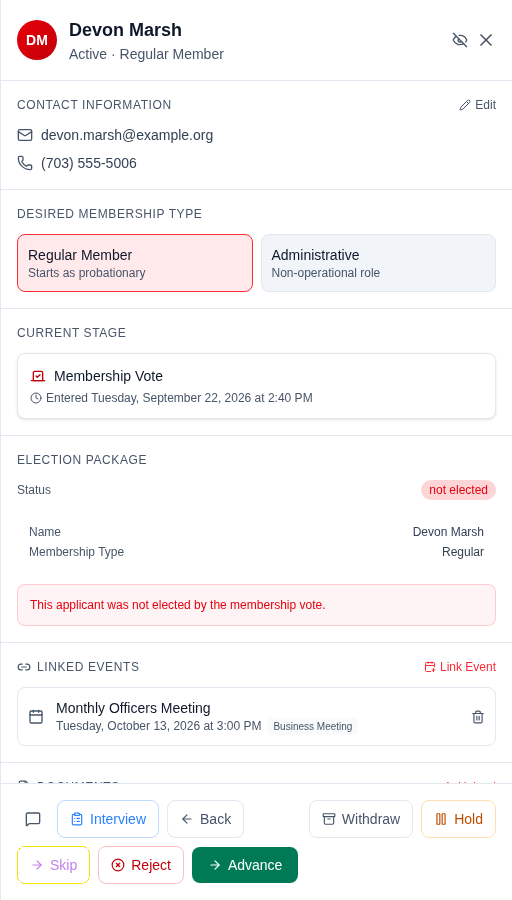
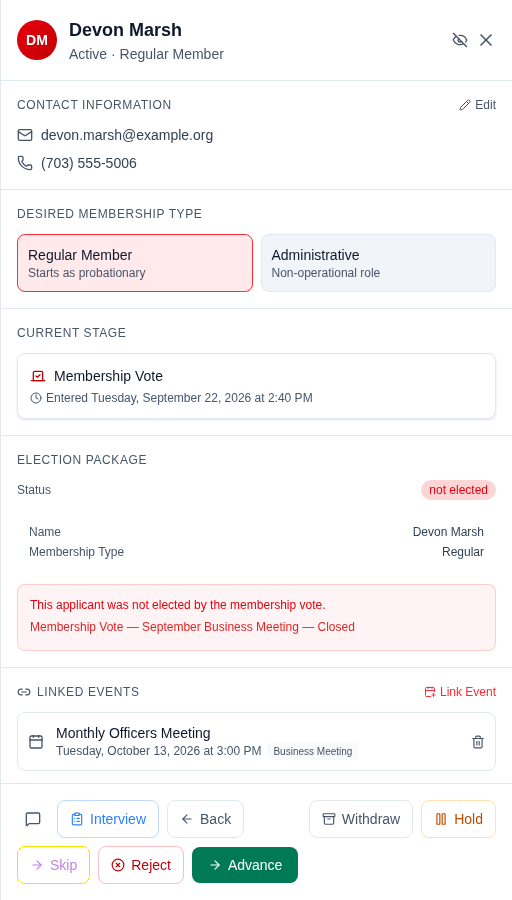
fix(prospective-members): carry the ballot's identity through the package mapper
The applicant drawer's election panel is written to name the ballot that
decided the outcome, as a link under the banner, with the election's state
appended — "— Voting in progress" or "— Closed". It has never appeared, for
any package in any outcome state.

The backend was never the gap: `ElectionPackageResponse` returns
`election_title`, `election_end_date` and `election_status` beside
`election_id`, and the running API serves all four. `mapElectionPackageResponse`
copied only `election_id`, so `ElectionPackageSection`'s
`election_id && election_title` guard was permanently false.

A guard that renders nothing has no failure to report: no exception, no
console warning, no failing test, and a panel that looks complete because
nothing in it is visibly wrong. It surfaced only from reading the section's
rendered text against a seeded losing vote while framing a screenshot.

`BackendElectionPackageResponse` gains the three fields it was missing, and
the mapper carries them with the same `|| undefined` coercion the neighbouring
`election_id` uses — a read mapping, where an empty title should read as
absent rather than render an empty link.

The mapper is exported so the test drives it directly, as
`mapProspectToApplicant` already is. Two cases: every election field survives
the mapping, and a package on no ballot leaves all four undefined.

The screenshot the defect was found from is re-taken against the fixed build,
[…]

Changed region(s): [[0.0312, 0.6844, 0.7188, 0.8711], [0.8125, 0.6844, 0.9688, 0.84]]

diff --git a/frontend/src/modules/prospective-members/services/api.test.ts b/frontend/src/modules/prospective-members/services/api.test.ts
@@ -1,6 +1,6 @@
 import { describe, it, expect } from 'vitest';
-import { mapProspectToApplicant } from './api';
-import type { BackendProspectResponse, BackendStepProgressResponse } from '../types';
+import { mapElectionPackageResponse, mapProspectToApplicant } from './api';
+import type { BackendElectionPackageResponse, BackendProspectResponse, BackendStepProgressResponse } from '../types';
 import { StepProgressStatus } from '../types';
 
 /** Helper to build a minimal BackendStepProgressResponse */
@@ -299,5 +299,61 @@ describe('mapProspectToApplicant', () => {
     const result = mapProspectToApplicant(data);
 
     expect(result.status).toBe('on_hold');
+  });
+});
+
+/** Helper to build a minimal BackendElectionPackageResponse */
+function makeElectionPackageResponse(
+  overrides: Partial<BackendElectionPackageResponse> = {}
+): BackendElectionPackageResponse {
+  return {
+    id: 'pkg-1',
+    prospect_id: 'prospect-1',
+    pipeline_id: 'pipeline-1',
+    step_id: 'step-1',
+    election_id: 'election-1',
+    election_title: 'Membership Vote — September Business Meeting',
+    election_end_date: '2026-10-01T18:28:41Z',
+    election_status: 'closed',
+    status: 'not_elected',
+    applicant_snapshot: { first_name: 'Devon', last_name: 'Marsh' },
+    coordinator_notes: null,
+    package_config: null,
+    created_at: '2026-09-01T00:00:00Z',
+    updated_at: '2026-09-22T00:00:00Z',
+    ...overrides,
+  };
+}
+
+describe('mapElectionPackageResponse', () => {
+  // ElectionPackageSection renders the ballot link behind
+  // `election_id && election_title`. The mapper used to copy the id alone, so
+  // that guard was permanently false and no package in any outcome state named
+  // the ballot that decided it -- while the backend had been sending all four
+  // fields the whole time.
+  it('carries every field describing the election, not just its id', () => {
+    const result = mapElectionPackageResponse(makeElectionPackageResponse());
+
+    expect(result.election_id).toBe('election-1');
+    expect(result.election_title).toBe('Membership Vote — September Business Meeting');
+    expect(result.election_end_date).toBe('2026-10-01T18:28:41Z');
+    expect(result.election_status).toBe('closed');
+  });
+
+  it('leaves the election fields undefined for a package on no ballot', () => {
+    const result = mapElectionPackageResponse(
+      makeElectionPackageResponse({
+        election_id: null,
+        election_title: null,
+        election_end_date: null,
+        election_status: null,
+        status: 'draft',
+      })
+    );
+
+    expect(result.election_id).toBeUndefined();
+    expect(result.election_title).toBeUndefined();
+    expect(result.election_end_date).toBeUndefined();
+    expect(result.election_status).toBeUndefined();
   });
 });

diff --git a/frontend/src/modules/prospective-members/services/api.ts b/frontend/src/modules/prospective-members/services/api.ts
@@ -394,7 +394,7 @@ function mapProspectListToApplicantList(data: BackendProspectListResponse): Appl
 }
 
 /** Map a backend election package response to a frontend ElectionPackage */
-function mapElectionPackageResponse(data: BackendElectionPackageResponse): ElectionPackage {
+export function mapElectionPackageResponse(data: BackendElectionPackageResponse): ElectionPackage {
   const snapshot = data.applicant_snapshot ?? {};
   const config = data.package_config ?? {};
 
@@ -427,6 +427,13 @@ function mapElectionPackageResponse(data: BackendElectionPackageResponse): Elect
     recommended_ballot_item: config.recommended_ballot_item,
     status: data.status,
     election_id: data.election_id || undefined,
+    // All four describe the ballot, and ElectionPackageSection renders the
+    // link only when `election_id && election_title` both survive the mapping.
+    // Carrying the id alone left that guard permanently false, so no package
+    // in any outcome state ever showed which ballot decided it.
+    election_title: data.election_title || undefined,
+    election_end_date: data.election_end_date || undefined,
+    election_status: data.election_status || undefined,
     candidate_id: config.candidate_id,
     created_at: data.created_at,
     updated_at: data.updated_at,

diff --git a/frontend/src/modules/prospective-members/types/index.ts b/frontend/src/modules/prospective-members/types/index.ts
@@ -1021,6 +1021,9 @@ export interface BackendElectionPackageResponse {
   pipeline_id: string | null;
   step_id: string | null;
   election_id: string | null;
+  election_title: string | null;
+  election_end_date: string | null;
+  election_status: string | null;
   status: ElectionPackageStatus;
   applicant_snapshot: {
     first_name?: string;

diff --git a/docs/training/SCREENSHOT_CURRENCY.md b/docs/training/SCREENSHOT_CURRENCY.md
@@ -93,17 +93,22 @@ as forward — which had already dragged the *elected* package onto an applicant
 at Background & Medical, quietly making guide 01's Elected badge unreproducible.
 `SCENARIO_STAGES` pins both. Do not remove it to "simplify the spread".
 
-**What the drawer does not show, and should.** The panel's banner is the whole
-of the outcome in this frame: the ballot that decided it is named by the
-backend — `election_title`, `election_status` and `election_end_date` all come
-back on `GET /prospective-members/prospects/{id}/election-package` — and
-`ElectionPackageSection` is written to render it as a link beneath the banner.
-It never appears, for any package in any outcome state, because
-`mapElectionPackageResponse` in the module's `services/api.ts` copies
-`election_id` and drops the other three, so the component's
-`election_id && election_title` guard is never satisfied. The shot is accurate
-to what ships; **fixing the mapper changes this frame and the shot would need
-re-taking.** Recorded rather than fixed here to keep this pass to its capture.
+**The ballot link was missing, and framing this shot is what found it.** The
+backend had been sending `election_title`, `election_status` and
+`election_end_date` on `GET /prospective-members/prospects/{id}/election-package`
+all along, and `ElectionPackageSection` renders them as a link beneath the
+banner — but `mapElectionPackageResponse` in the module's `services/api.ts`
+copied `election_id` and dropped the other three, so the component's
+`election_id && election_title` guard was permanently false. No package named
+the ballot that decided it, in any outcome state, and nothing failed: a guard
+that renders nothing has no error to report. The first capture pictured exactly
+that absence.
+
+The mapper now carries all four, and the shot was re-taken against the fixed
+build — the frame includes _Membership Vote — September Business Meeting —
+Closed_ under the banner. The manifest entry waits for that link before it
+shoots, so the capture fails rather than quietly losing it if the mapping
+regresses.
 
 ### The Open Shifts pair needs two sessions, not two clips
 

diff --git a/docs/training/20-september-2026-release-changes.md b/docs/training/20-september-2026-release-changes.md
@@ -1318,7 +1318,7 @@ If your department holds its vote at a meeting and records the outcome by hand,
 **nothing changes**: a stage with no package, or one still _Draft_ or _Ready_,
 advances exactly as before.
 
-![An applicant's drawer after a losing vote — the Membership Vote stage, the red not elected package status and its banner, and an action row that offers Advance](./images/20-13-applicant-drawer-not-elected.png)
+![An applicant's drawer after a losing vote — the Membership Vote stage, the red not elected package status, the banner and a link to the closed ballot, and an action row that offers Advance](./images/20-13-applicant-drawer-not-elected.png)
 
 **A Meeting stage that names no event now advances on nothing.** The stage
 builder's **Auto-Link Event Type** is what tells a meeting stage which event
